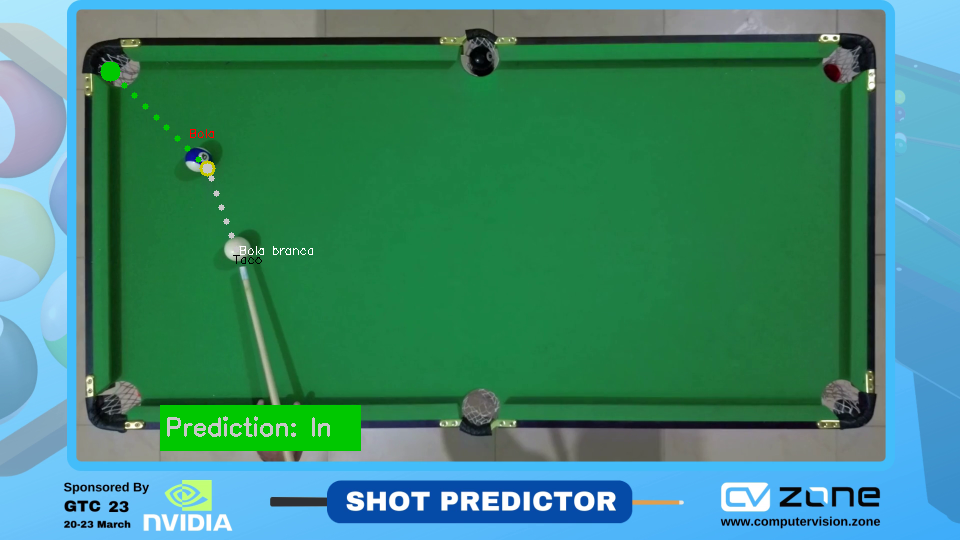
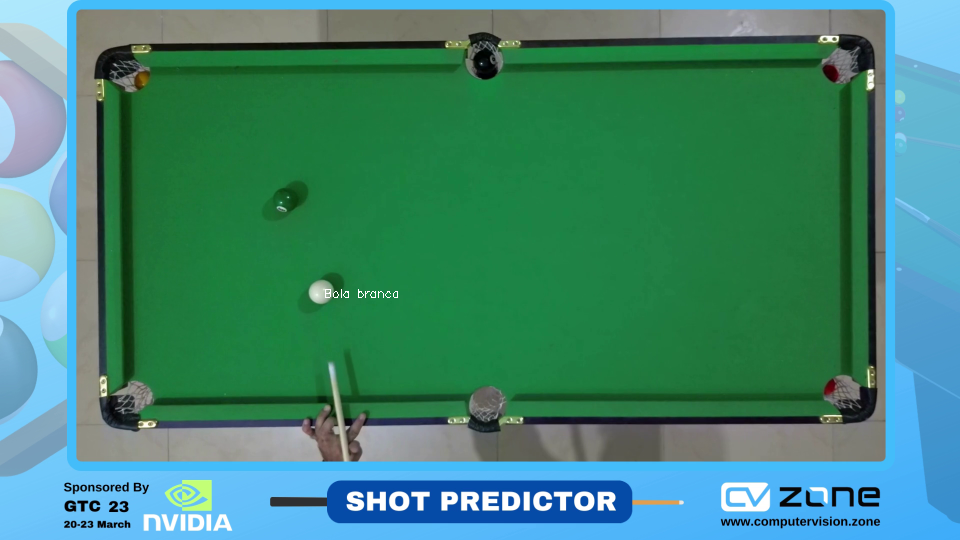
Update cue detection

diff --git a/main.py b/main.py
@@ -61,26 +61,28 @@ def imgProcessing(img):
 # Function to calculate the position of the holes
 def findHoles():
     holes = [
-        [15, 40, 63, 85],
+        [15, 40, 65, 85],
         [372, 35, 412, 75],
-        [725, 39, 770, 82],
+        [725, 39, 795, 78],
         [25, 369, 66, 408],
         [377, 376, 414, 413],
         [725, 368, 766, 406]
     ]
     return holes
 
-
 # Function to find the position of the cue 
 def findTaco(img):
-    lower = np.array([79,36,168])
-    upper = np.array([98,255,217])
-    imgFiltered = colorFilter(img, lower, upper)
+    croppedImg = img[90:, :]
+    lower = np.array([77,44,159])
+    upper = np.array([100,89,213])
+    imgFiltered = colorFilter(croppedImg, lower, upper)
     imgProcessed = imgProcessing(imgFiltered)
     contours, hierarchy = cv2.findContours(imgProcessed, cv2.RETR_EXTERNAL, cv2.CHAIN_APPROX_NONE)
+    maxArea = -1
+    taco = []
     for i in contours:
         area = cv2.contourArea(i)
-        if area > 15 and area < 65:
+        if area > 2 and area < 80:
             cv2.drawContours(imgFiltered, i, -1, (172, 0, 196), 2)
             peri = cv2.arcLength(i, True)
             approx = cv2.approxPolyDP(i, 0.02*peri, True)
@@ -89,10 +91,14 @@ def findTaco(img):
             cv2.putText(imgFiltered, f"{w}, {h}" ,(x+w//2, y+h//2-10),cv2.FONT_HERSHEY_COMPLEX, 0.7, (255,255,255), 1)
             cv2.putText(imgFiltered, f"{area}" ,(x+w//2, y+h//2+15),cv2.FONT_HERSHEY_COMPLEX, 0.7, (255,255,255), 1)
             if objCor > 2:
-                if w < 15 and w > 6 and h < 15 and h > 6:
-                    cv2.rectangle(imgFiltered, (x, y), (x+w, y+h), (255,255,255), 2)
-                    cv2.putText(imgCropped, "Taco", (x+(w//2)-10, y+(h//2)-10), cv2.FONT_HERSHEY_SIMPLEX, 0.4,  (0,0,0), 1)
-                    return [x, y, w, h]
+                if w < 18 and w > 5 and h < 18 and h > 5 and w-h != 0:
+                    if area > maxArea:
+                        maxArea = area
+                        taco = [x, y+90, w, h]
+    if taco:
+        cv2.rectangle(imgFiltered, (taco[0], taco[1]-90), (taco[0]+taco[2], taco[1]-90+taco[3]), (255,255,255), 2)
+        cv2.putText(imgCropped, "Taco", (taco[0]+(taco[2]//2)-10, taco[1]+(taco[3]//2)-10), cv2.FONT_HERSHEY_SIMPLEX, 0.4,  (0,0,0), 1)
+        return taco
     #return imgFiltered
 
 # Function to find the position of the cue ball
@@ -161,7 +167,10 @@ def findColoredBalls(img):
 def lineEquation(point1, point2):
     x1, y1 = point1[0], point1[1]
     x2, y2 = point2[0], point2[1]
-    m = (y2-y1)/(x2-x1)
+    try:
+        m = (y2-y1)/(x2-x1)
+    except ZeroDivisionError:
+        m = (y2-y1)/(x2+1-x1)
     n = y1-(m*x1)
     return m, n
 
@@ -234,11 +243,13 @@ def pathPrediction(collisionPoint, coloredBall, paths, holes):
     ballCenter = [coloredBall[0]+coloredBall[2]//2, coloredBall[1]+coloredBall[3]//2]
     m2, n2 = lineEquation(collisionPoint, [ballCenter[0]+1, ballCenter[1]+1])
     
+    if collisionPoint[0] > coloredBall[0]+coloredBall[2]//2:
+        last_x = 30
+    else:
+        last_x = 790
+
     for i in range(0,2):
-        if collisionPoint[0] > coloredBall[0]+coloredBall[2]//2:
-            x2 = 30
-        else:
-            x2 = 790
+        x2 = last_x
         y2 = int((m2*x2)+n2)
 
         if y2 >= 390:
@@ -247,8 +258,16 @@ def pathPrediction(collisionPoint, coloredBall, paths, holes):
         if y2 <= 60:
             y2 = 60
             x2 = int((y2-n2)/m2)
+        if y2 > 75 and y2 < 350 and x2 >= 765:
+            x2 = 765
+            y2 = int((m2*x2)+n2)
+            last_x = 30
+        if y2 > 75 and y2 < 350 and x2 <= 35:
+            x2 = 35
+            y2 = int((m2*x2)+n2)
+            last_x = 765
         paths.append([x2, y2])
-        color, inHole = bouncePrediction(paths[-1], coloredBalls[2]//2, holes)
+        color, inHole = bouncePrediction(paths[-1], 12, holes)
         if inHole:
             return paths, color, inHole
         else:
@@ -322,6 +341,6 @@ while True:
         shotPrediction(taco, cueBall, coloredBalls, holes)
     #finalImg = stackImages(0.7, [imgCropped, taco])
     cv2.imshow("Result", imgRaw)
-    cv2.imwrite("screenshot.png", imgRaw)
+    #cv2.imwrite("screenshot.png", imgRaw)
     if cv2.waitKey(75) & 0xFF == ord('q'):
         break
